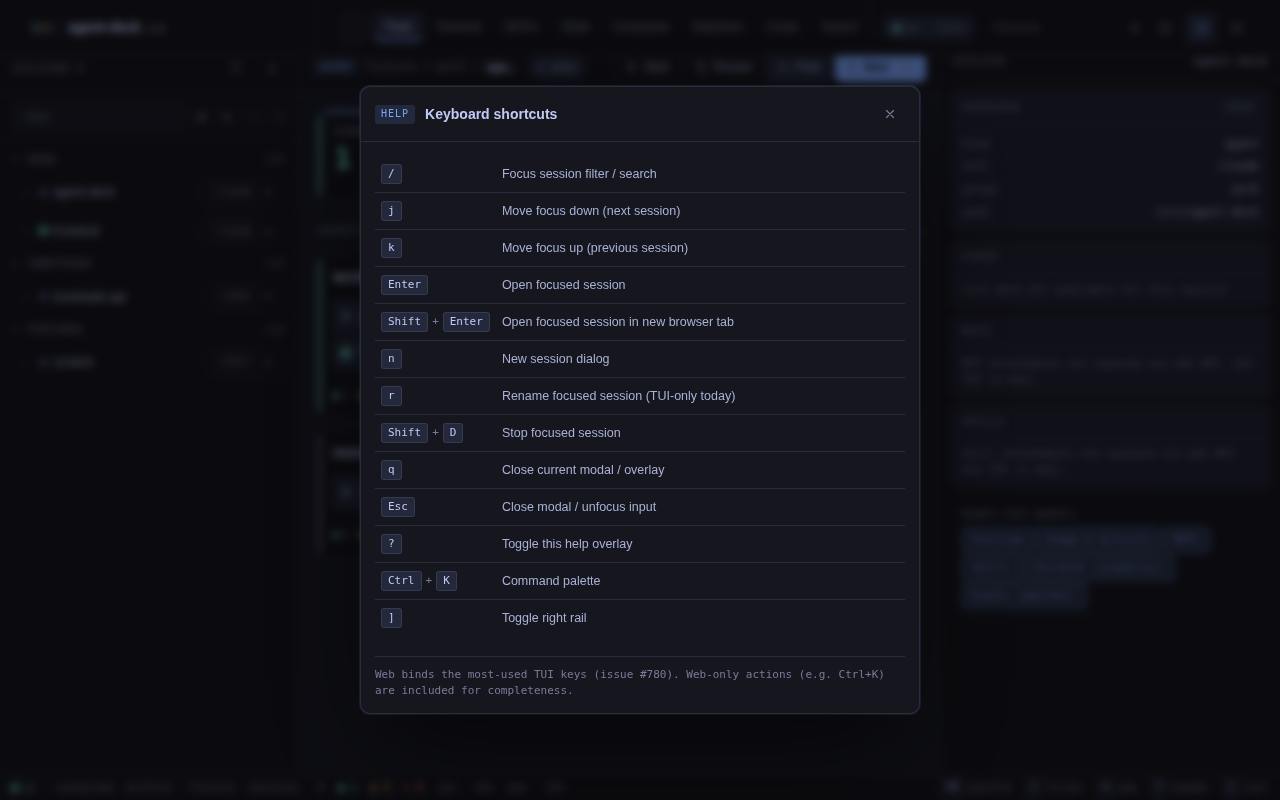
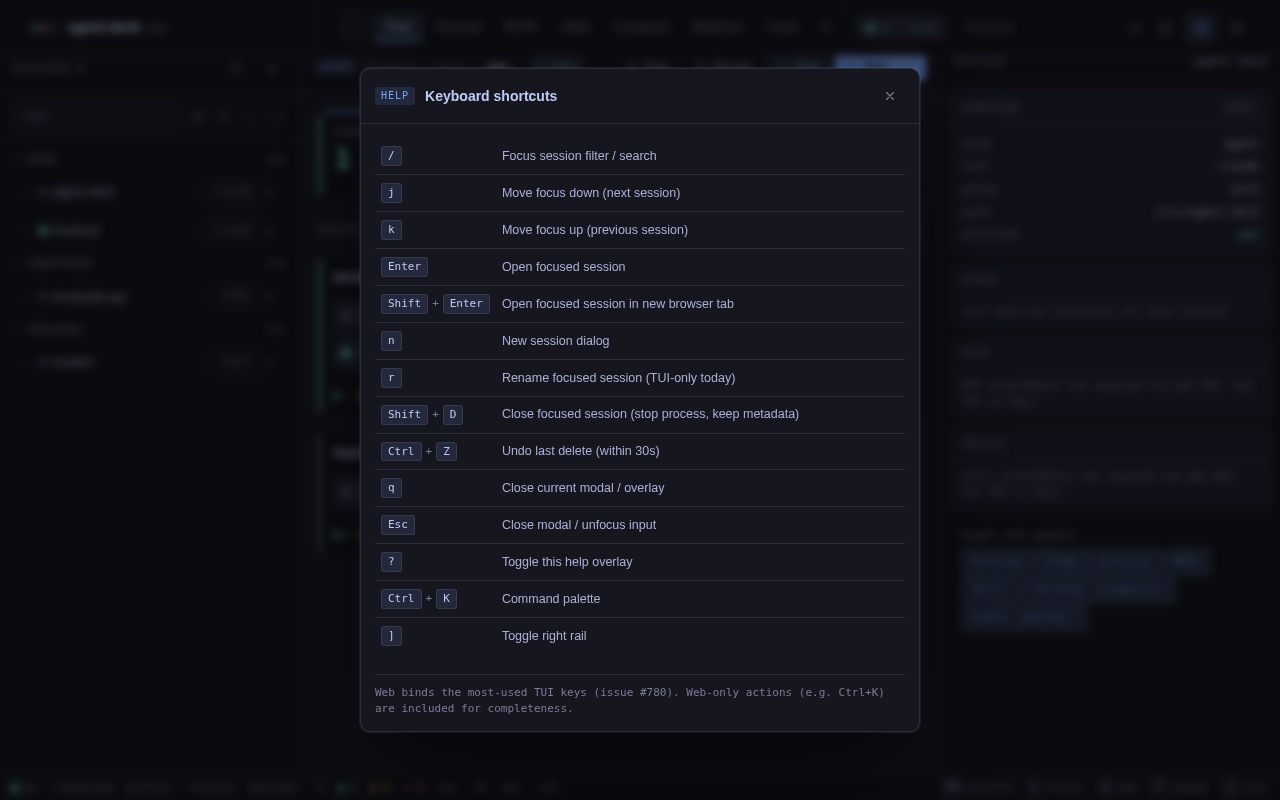
test(e2e): fix broken Playwright tests on main (#1235 discovery) (#1236)
Stabilizes 8 pre-existing Playwright e2e failures surfaced (not caused) by
PR #1235's `playwright (e2e + screenshots)` job. Mix of one product
regression, one test-fixture bug, and stale test/baseline expectations.

Product bug — Skills tab wired to a stub (skills.spec.js UI tests):
PR #1124 (c709400a), while wiring McpPane in place of the MCP stub, also
clobbered the SkillsPane wiring that #1122 had added, reverting the Skills
tab to a StubPane. The fully-functional SkillsPane component was orphaned.
Restored its import + mount in AppShell.js. This was a real user-facing
regression (web Skills tab showed a placeholder instead of the working pane).

Fixture bug — MCP state leaked across tests (mcps.spec.js #38, #123):
/__fixture/reset reseeded the session store but never reset the in-memory
fixtureMCPManager, whose Reset() method was dead code. Attachments leaked
across the serially-run MCP cases (and across Playwright retries, which
re-run the whole serial block), so "fresh fixture → empty arrays" and
"un-attached → 404" saw stale attachments. Wired Reset() into the handler.

Stale tests — Stop→Close rename (keyboard-parity.spec.js #49, #140):
#1129 (5b0dae2a) reworked Shift+D into a non-destructive "Close session"
(kill process, keep metadata) and reworded the overlay label + confirm
dialog accordingly. The specs still asserted the old "Stop" copy. Updated
the two assertions to match, with comments citing the commit.
[…]

Pull request: test(e2e): fix broken Playwright tests on main (#1235 example)
## Summary

The `playwright (e2e + screenshots)` job has been failing for a while on `main`. It surfaces on **#1235** ([run](https://github.com/asheshgoplani/agent-deck/actions/runs/26718937548/job/78742398046?pr=1235)), but the failures are **pre-existing — not introduced by #1235**; #1235 was just the discovery vector. Reproduced against clean `main` (f6bc0f55) before touching anything.

8 failing tests, four distinct root causes — one **product bug**, one **test-fixture bug**, and two **stale test/baseline expectations**. No test was skipped/`.fixme`'d; no assertion was weakened.

## Failures, root causes & fixes

### Product bug — Skills tab wired to a stub (3 tests)
- `skills.spec.js:79` UI: Skills tab lists the seeded attachment and catalog
- `skills.spec.js:92` UI: clicking Attach moves a skill from catalog to attached
- `skills.spec.js:102` UI: clicking Detach removes a skill from the attached list
[…]

diff --git a/tests/web/e2e/keyboard-parity.spec.js b/tests/web/e2e/keyboard-parity.spec.js
@@ -52,7 +52,9 @@ test.describe('keyboard parity (#780)', () => {
     await expect(overlay).toBeVisible()
     // It must list the bindings; just check a couple of known labels.
     await expect(overlay).toContainText('Move focus down')
-    await expect(overlay).toContainText('Stop focused session')
+    // Shift+D was reworded "Stop" → "Close focused session" in #1129 (5b0dae2a:
+    // non-destructive close, keeps metadata); the overlay label followed suit.
+    await expect(overlay).toContainText('Close focused session')
     // Pressing ? again toggles it back off.
     await page.keyboard.press('?')
     await expect(overlay).toHaveCount(0)
@@ -141,10 +143,12 @@ test.describe('keyboard parity (#780)', () => {
     await page.keyboard.down('Shift')
     await page.keyboard.press('D')
     await page.keyboard.up('Shift')
-    // ConfirmDialog shows the stop-session message.
+    // ConfirmDialog shows the close-session message. #1129 (5b0dae2a) reworked
+    // Shift+D into a non-destructive "Close session" (kill process, keep
+    // metadata), so the dialog copy is "Close session …" not "Stop session".
     const dialog = page.locator('.overlay .dialog, [role="dialog"]').first()
     await expect(dialog).toBeVisible()
-    await expect(dialog).toContainText(/stop session/i)
+    await expect(dialog).toContainText(/close session/i)
   })
 
   test('q closes an open modal', async ({ page }) => {

diff --git a/internal/web/static/app/AppShell.js b/internal/web/static/app/AppShell.js
@@ -21,6 +21,7 @@ import { FleetPane } from './panes/FleetPane.js'
 import { StubPane } from './panes/StubPane.js'
 import { SearchPane } from './panes/SearchPane.js'
 import { McpPane } from './panes/McpPane.js'
+import { SkillsPane } from './panes/SkillsPane.js'
 import { Icon, ICONS } from './icons.js'
 import { menuModelSignal } from './dataModel.js'
 import {
@@ -101,9 +102,7 @@ function Panes({ tab }) {
     ${tab === 'costs'     && html`<${CostsPane}/>`}
     ${tab === 'search'    && html`<${SearchPane}/>`}
     ${tab === 'mcp'       && html`<${McpPane}/>`}
-    ${tab === 'skills'    && html`<${StubPane} title="Skills"
-                              message="Skill attachments are managed in the TUI today. The web API does not expose skill management yet."
-                              hotkey="s"/>`}
+    ${tab === 'skills'    && html`<${SkillsPane}/>`}
     ${tab === 'conductor' && html`<${StubPane} title="Conductor"
                               message="Conductor orchestration view is TUI-only. The web API does not expose child topology, bridges, or NEED escalation."/>`}
     ${tab === 'watchers'  && html`<${StubPane} title="Watchers"

diff --git a/tests/web/fixtures/cmd/web-fixture/main.go b/tests/web/fixtures/cmd/web-fixture/main.go
@@ -64,7 +64,13 @@ func main() {
 		MenuData:     store,
 	})
 	server.SetMutator(store)
-	server.SetMCPManager(newFixtureMCPManager())
+	// Hold the MCP manager on the store so /__fixture/reset clears its
+	// in-memory attachments too. Without this, attachments leak across the
+	// serially-run mcps.spec.js cases (and across Playwright retries, which
+	// re-run the whole serial block), breaking the "fresh fixture" and
+	// "un-attached → 404" assertions.
+	store.mcpMgr = newFixtureMCPManager()
+	server.SetMCPManager(store.mcpMgr)
 	// Without this, GET /api/skills falls back to defaultSkillsService, which
 	// scans the host's real ~/.agent-deck/skills + ~/.claude/skills via
 	// session.ListAvailableSkills() — so the seeded alpha/beta/gamma catalog is
@@ -124,6 +130,7 @@ type fixtureStore struct {
 	startupToken string // echoed at /__fixture/whoami for spawn verification
 	catalog      []session.SkillCandidate
 	attached     map[string][]session.ProjectSkillAttachment // by projectPath
+	mcpMgr       *fixtureMCPManager                          // reset alongside the store on /__fixture/reset
 
 	// undoStack tracks recently-deleted sessions for ctrl+z undo. Capped
 	// at 10 entries (FIFO eviction) to match the TUI Home.undoStack.
@@ -487,6 +494,9 @@ func (s *fixtureStore) adminHandler() http.Handler {
 			return
 		}
 		s.seed()
+		if s.mcpMgr != nil {
+			s.mcpMgr.Reset()
+		}
 		w.WriteHeader(http.StatusNoContent)
 	})
 	mux.HandleFunc("/__fixture/snapshot", func(w http.ResponseWriter, r *http.Request) {